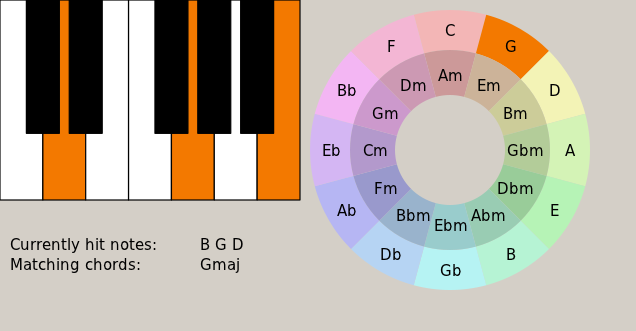
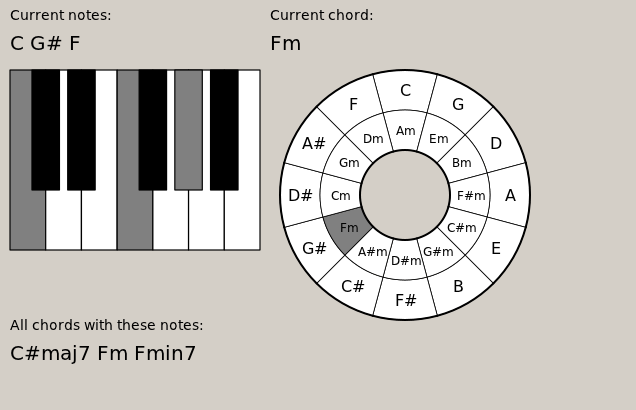
Re-design of the main screen layout and the circle of fifths

diff --git a/README.md b/README.md
@@ -11,7 +11,7 @@ Screenshot (work in progress)
 
 ![Screenshot of the development version](/lordi/scalehs/raw/master/screenshot.png)
 
-As you can see in the above screenshot, the application utilizes a synaesthetic approach to help the user learn chords and their relationships: A color wheel is mapped onto the circle of fifths to aid the intuitive learning, and the chord's color is also used on the piano display on the left.
+~~As you can see in the above screenshot, the application utilizes a synaesthetic approach to help the user learn chords and their relationships: A color wheel is mapped onto the circle of fifths to aid the intuitive learning, and the chord's color is also used on the piano display on the left.~~
 
 Code structure
 --------------
